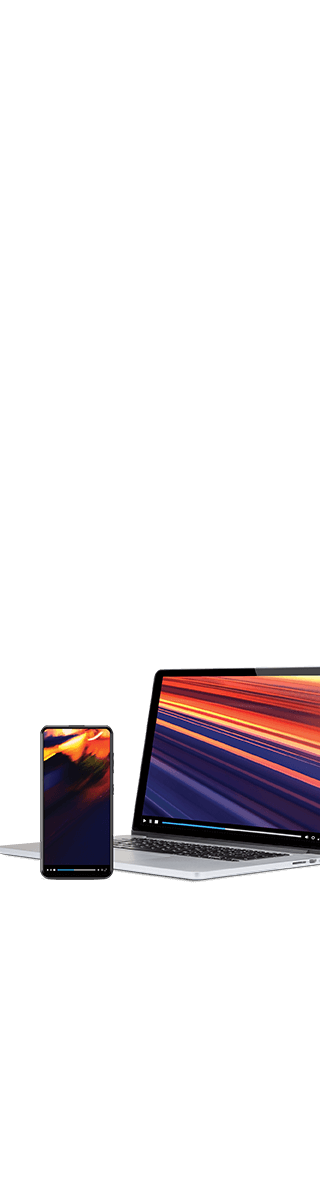
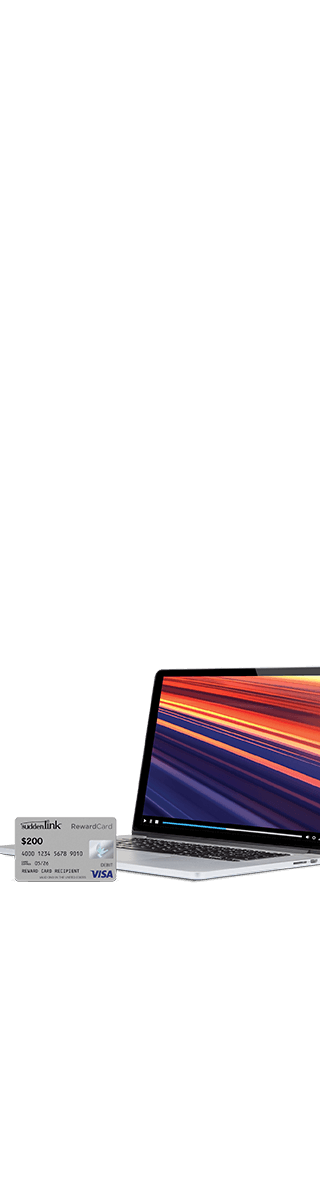
Altice Update

Changed region(s): [[0.0312, 0.5858, 0.375, 0.74], [0.4375, 0.555, 1.0, 0.6475], [0.4062, 0.6475, 0.4375, 0.6783]]

diff --git a/A/Altice/2021/DCO_Feed/frames.js b/A/Altice/2021/DCO_Feed/frames.js
@@ -1,1 +1,1 @@
-var publishVersion = 1611938991826, frames={"ads/SDL_30_1yr(100Mbps)/160x600/160x600.html":{"frame1":"ads/SDL_30_1yr(100Mbps)/160x600/160x600_frame1.html","frame2":"ads/SDL_30_1yr(100Mbps)/160x600/160x600_frame2.html","frame3":"ads/SDL_30_1yr(100Mbps)/160x600/160x600_frame3.html","frame4":"ads/SDL_30_1yr(100Mbps)/160x600/160x600_frame4.html"},"ads/SDL_30_1yr(100Mbps)/300x250/300x250.html":{"frame1":"ads/SDL_30_1yr(100Mbps)/300x250/300x250_frame1.html","frame2":"ads/SDL_30_1yr(100Mbps)/300x250/300x250_frame2.html","frame3":"ads/SDL_30_1yr(100Mbps)/300x250/300x250_frame3.html","frame4":"ads/SDL_30_1yr(100Mbps)/300x250/300x250_frame4.html"},"ads/SDL_30_1yr(100Mbps)/300x600/300x600.html":{"frame1":"ads/SDL_30_1yr(100Mbps)/300x600/300x600_frame1.html","frame2":"ads/SDL_30_1yr(100Mbps)/300x600/300x600_frame2.html","frame3":"ads/SDL_30_1yr(100Mbps)/300x600/300x600_frame3.html","frame4":"ads/SDL_30_1yr(100Mbps)/300x600/300x600_frame4.html"},"ads/SDL_30_1yr(100Mbps)/300x50/300x50.html":{"frame1":"ads/SDL_30_1yr(100Mbps)/300x50/300x50_frame1.html","frame2":"ads/SDL_30_1yr(100Mbps)/300x50/300x50_frame2.html","frame3":"ads/SDL_30_1yr(100Mbps)/300x50/300x50_frame3.html","frame4":"ads/SDL_30_1yr(100Mbps)/300x50/300x50_frame4.html","frame5":"ads/SDL_30_1yr(100Mbps)/300x50/300x50_frame5.html"},"ads/SDL_30_1yr(100Mbps)/728x90/728x90.html":{"frame1":"ads/SDL_30_1yr(100Mbps)/728x90/728x90_frame1.html","frame2":"ads/SDL_30_1yr(100Mbps)/728x90/728x90_frame2.html","frame3":"ads/SDL_30_1yr(100Mbps)/728x90/728x90_frame3.html","frame4":"ads/SDL_30_1yr(100Mbps)/728x90/728x90_frame4.html"},"ads/SDL_30_1yr(100Mbps)/320x50/320x50.html":{"frame1":"ads/SDL_30_1yr(100Mbps)/320x50/320x50_frame1.html","frame2":"ads/SDL_30_1yr(100Mbps)/320x50/320x50_frame2.html","frame3":"ads/SDL_30_1yr(100Mbps)/320x50/320x50_frame3.html","frame4":"ads/SDL_30_1yr(100Mbps)/320x50/320x50_frame4.html","frame5":"ads/SDL_30_1yr(100Mbps)/320x50/320x50_frame5.html"}}
+var publishVersion = 1612438035642, frames={"ads/SDL_30_1yr(100Mbps)/300x50/300x50.html":{"frame1":"ads/SDL_30_1yr(100Mbps)/300x50/300x50_frame1.html","frame2":"ads/SDL_30_1yr(100Mbps)/300x50/300x50_frame2.html","frame3":"ads/SDL_30_1yr(100Mbps)/300x50/300x50_frame3.html","frame4":"ads/SDL_30_1yr(100Mbps)/300x50/300x50_frame4.html","frame5":"ads/SDL_30_1yr(100Mbps)/300x50/300x50_frame5.html"},"ads/SDL_30_1yr(100Mbps)/320x50/320x50.html":{"frame1":"ads/SDL_30_1yr(100Mbps)/320x50/320x50_frame1.html","frame2":"ads/SDL_30_1yr(100Mbps)/320x50/320x50_frame2.html","frame3":"ads/SDL_30_1yr(100Mbps)/320x50/320x50_frame3.html","frame4":"ads/SDL_30_1yr(100Mbps)/320x50/320x50_frame4.html","frame5":"ads/SDL_30_1yr(100Mbps)/320x50/320x50_frame5.html"},"ads/SDL_30_1yr(100Mbps)/300x600/300x600.html":{"frame1":"ads/SDL_30_1yr(100Mbps)/300x600/300x600_frame1.html","frame2":"ads/SDL_30_1yr(100Mbps)/300x600/300x600_frame2.html","frame3":"ads/SDL_30_1yr(100Mbps)/300x600/300x600_frame3.html","frame4":"ads/SDL_30_1yr(100Mbps)/300x600/300x600_frame4.html"},"ads/SDL_30_1yr(100Mbps)/728x90/728x90.html":{"frame1":"ads/SDL_30_1yr(100Mbps)/728x90/728x90_frame1.html","frame2":"ads/SDL_30_1yr(100Mbps)/728x90/728x90_frame2.html","frame3":"ads/SDL_30_1yr(100Mbps)/728x90/728x90_frame3.html","frame4":"ads/SDL_30_1yr(100Mbps)/728x90/728x90_frame4.html"},"ads/SDL_30_1yr(100Mbps)/300x250/300x250.html":{"frame1":"ads/SDL_30_1yr(100Mbps)/300x250/300x250_frame1.html","frame2":"ads/SDL_30_1yr(100Mbps)/300x250/300x250_frame2.html","frame3":"ads/SDL_30_1yr(100Mbps)/300x250/300x250_frame3.html","frame4":"ads/SDL_30_1yr(100Mbps)/300x250/300x250_frame4.html"},"ads/SDL_30_1yr(100Mbps)/160x600/160x600.html":{"frame1":"ads/SDL_30_1yr(100Mbps)/160x600/160x600_frame1.html","frame2":"ads/SDL_30_1yr(100Mbps)/160x600/160x600_frame2.html","frame3":"ads/SDL_30_1yr(100Mbps)/160x600/160x600_frame3.html","frame4":"ads/SDL_30_1yr(100Mbps)/160x600/160x600_frame4.html"}}

diff --git a/A/Altice/2021/DCO_Feed/ads/SDL_30_1yr(100Mbps)/300x250/300x250.html b/A/Altice/2021/DCO_Feed/ads/SDL_30_1yr(100Mbps)/300x250/300x250.html
@@ -331,7 +331,7 @@
           "frameText1": "Pilot Point^just got faster",
           "frameText2": "<div style='top: 55px;left: 20px;width: 260px;font-size: 28px;line-height: 1;text-align: center;'>Suddenlink’s<br>next generation network is here</div>^<div class='AlticeRegular' style='top:178px;left:30px;font-size:8.6px;top:178px;left:30px;font-size:8.6px;line-height:1.2;'>Speeds, prices &<br>availability vary by area.</div>^&nbsp;",
           "frameText3": "<div style='top: 114px;left: 20px;width: 260px;font-size: 24px;line-height: 1;text-align: center;'>Get 100 Mbps Internet</div>^<div class='AlticeRegular' style='top:178px;left:30px;font-size:8.6px;line-height:1.2;'>Wired connection<br>up to 100 Mbps.</div>^&nbsp;",
-          "frameText4": "<div style='top: 13px;left: 24px;font-size: 21.5px;line-height: 1;'><div style='color: #0084d6;height: 17px;font-size: 68%;'>Fast Internet has arrived</div>100 Mbps<br>Internet</div><div style='top: 13px;left: 24px;font-size: 21.5px;line-height: 1;'><div style='color: #0084d6;height: 17px;font-size: 68%;'>Fast Internet has arrived</div>100 Mbps<br>Internet</div>^<div style='top: 75px;left: 18px;width: 160px;line-height: 1;'><font style='font-size: 64px;letter-spacing: -0.5px;padding-right: 2px;line-height: 0.92;' class='coloredText'>$30</font><font style='margin-left: 2px;font-size: 10px;display: inline-block;vertical-align: 26px;line-height: 1.1;'>/mo.<br>1 yr.</font><div class='AlticeRegular' style='margin: 5px 0 0 6px;font-size: 9px;line-height: 1.1;'>w/Auto Pay & Paperless Bill<br>Plus taxes, fees & charges</div></div>^<div style='top: 168px;left: 23px;transform: scale(0.77);transform-origin: top left;'><div class='bulletedText'>$100 Visa<span style='vertical-align:5px;font-size:9px;'>®</span> Prepaid Card. <div class='AlticeRegular' style='font-size: 13px;margin-top: 0px;'>Terms apply.</div></div></div>",
+          "frameText4": "<div style='top: 13px;left: 24px;font-size: 21.5px;line-height: 1;'><div style='color: #0084d6;height: 17px;font-size: 68%;'>Fast Internet has arrived</div>100 Mbps<br>Internet</div><div style='top: 13px;left: 24px;font-size: 21.5px;line-height: 1;'><div style='color: #0084d6;height: 17px;font-size: 68%;'>Fast Internet has arrived</div>100 Mbps<br>Internet</div>^<div style='top: 75px;left: 18px;width: 160px;line-height: 1;'><font style='font-size: 64px;letter-spacing: -0.5px;padding-right: 2px;line-height: 0.92;' class='coloredText'>$30</font><font style='margin-left: 2px;font-size: 10px;display: inline-block;vertical-align: 26px;line-height: 1.1;'>/mo.<br>1 yr.</font><div class='AlticeRegular' style='margin: 5px 0 0 6px;font-size: 9px;line-height: 1.1;'>w/Auto Pay & Paperless Bill<br>Plus taxes, fees & charges</div></div>^<div style='top: 171px;left: 21px;width:360px;transform: scale(0.77);transform-origin: top left;'><div class='bulletedText'><font style='color:#0084d6;'>New!</font> $200 Visa<span style='vertical-align:5px;font-size:9px;'>®</span> Prepaid Card. <div class='AlticeRegular' style='font-size: 12px;margin-top:2px;'>Terms apply.</div></div></div>",
           "ctaText": "Shop now",
           "clickUrl": "https://www.altice.com",
         },

diff --git a/A/Altice/2021/DCO_Feed/ads/SDL_30_1yr(100Mbps)/300x250/300x250_frame1.html b/A/Altice/2021/DCO_Feed/ads/SDL_30_1yr(100Mbps)/300x250/300x250_frame1.html
@@ -331,7 +331,7 @@
           "frameText1": "Pilot Point^just got faster",
           "frameText2": "<div style='top: 55px;left: 20px;width: 260px;font-size: 28px;line-height: 1;text-align: center;'>Suddenlink’s<br>next generation network is here</div>^<div class='AlticeRegular' style='top:178px;left:30px;font-size:8.6px;top:178px;left:30px;font-size:8.6px;line-height:1.2;'>Speeds, prices &<br>availability vary by area.</div>^&nbsp;",
           "frameText3": "<div style='top: 114px;left: 20px;width: 260px;font-size: 24px;line-height: 1;text-align: center;'>Get 100 Mbps Internet</div>^<div class='AlticeRegular' style='top:178px;left:30px;font-size:8.6px;line-height:1.2;'>Wired connection<br>up to 100 Mbps.</div>^&nbsp;",
-          "frameText4": "<div style='top: 13px;left: 24px;font-size: 21.5px;line-height: 1;'><div style='color: #0084d6;height: 17px;font-size: 68%;'>Fast Internet has arrived</div>100 Mbps<br>Internet</div><div style='top: 13px;left: 24px;font-size: 21.5px;line-height: 1;'><div style='color: #0084d6;height: 17px;font-size: 68%;'>Fast Internet has arrived</div>100 Mbps<br>Internet</div>^<div style='top: 75px;left: 18px;width: 160px;line-height: 1;'><font style='font-size: 64px;letter-spacing: -0.5px;padding-right: 2px;line-height: 0.92;' class='coloredText'>$30</font><font style='margin-left: 2px;font-size: 10px;display: inline-block;vertical-align: 26px;line-height: 1.1;'>/mo.<br>1 yr.</font><div class='AlticeRegular' style='margin: 5px 0 0 6px;font-size: 9px;line-height: 1.1;'>w/Auto Pay & Paperless Bill<br>Plus taxes, fees & charges</div></div>^<div style='top: 168px;left: 23px;transform: scale(0.77);transform-origin: top left;'><div class='bulletedText'>$100 Visa<span style='vertical-align:5px;font-size:9px;'>®</span> Prepaid Card. <div class='AlticeRegular' style='font-size: 13px;margin-top: 0px;'>Terms apply.</div></div></div>",
+          "frameText4": "<div style='top: 13px;left: 24px;font-size: 21.5px;line-height: 1;'><div style='color: #0084d6;height: 17px;font-size: 68%;'>Fast Internet has arrived</div>100 Mbps<br>Internet</div><div style='top: 13px;left: 24px;font-size: 21.5px;line-height: 1;'><div style='color: #0084d6;height: 17px;font-size: 68%;'>Fast Internet has arrived</div>100 Mbps<br>Internet</div>^<div style='top: 75px;left: 18px;width: 160px;line-height: 1;'><font style='font-size: 64px;letter-spacing: -0.5px;padding-right: 2px;line-height: 0.92;' class='coloredText'>$30</font><font style='margin-left: 2px;font-size: 10px;display: inline-block;vertical-align: 26px;line-height: 1.1;'>/mo.<br>1 yr.</font><div class='AlticeRegular' style='margin: 5px 0 0 6px;font-size: 9px;line-height: 1.1;'>w/Auto Pay & Paperless Bill<br>Plus taxes, fees & charges</div></div>^<div style='top: 171px;left: 21px;width:360px;transform: scale(0.77);transform-origin: top left;'><div class='bulletedText'><font style='color:#0084d6;'>New!</font> $200 Visa<span style='vertical-align:5px;font-size:9px;'>®</span> Prepaid Card. <div class='AlticeRegular' style='font-size: 12px;margin-top:2px;'>Terms apply.</div></div></div>",
           "ctaText": "Shop now",
           "clickUrl": "https://www.altice.com",
         },

diff --git a/A/Altice/2021/DCO_Feed/ads/SDL_30_1yr(100Mbps)/300x250/300x250_frame2.html b/A/Altice/2021/DCO_Feed/ads/SDL_30_1yr(100Mbps)/300x250/300x250_frame2.html
@@ -331,7 +331,7 @@
           "frameText1": "Pilot Point^just got faster",
           "frameText2": "<div style='top: 55px;left: 20px;width: 260px;font-size: 28px;line-height: 1;text-align: center;'>Suddenlink’s<br>next generation network is here</div>^<div class='AlticeRegular' style='top:178px;left:30px;font-size:8.6px;top:178px;left:30px;font-size:8.6px;line-height:1.2;'>Speeds, prices &<br>availability vary by area.</div>^&nbsp;",
           "frameText3": "<div style='top: 114px;left: 20px;width: 260px;font-size: 24px;line-height: 1;text-align: center;'>Get 100 Mbps Internet</div>^<div class='AlticeRegular' style='top:178px;left:30px;font-size:8.6px;line-height:1.2;'>Wired connection<br>up to 100 Mbps.</div>^&nbsp;",
-          "frameText4": "<div style='top: 13px;left: 24px;font-size: 21.5px;line-height: 1;'><div style='color: #0084d6;height: 17px;font-size: 68%;'>Fast Internet has arrived</div>100 Mbps<br>Internet</div><div style='top: 13px;left: 24px;font-size: 21.5px;line-height: 1;'><div style='color: #0084d6;height: 17px;font-size: 68%;'>Fast Internet has arrived</div>100 Mbps<br>Internet</div>^<div style='top: 75px;left: 18px;width: 160px;line-height: 1;'><font style='font-size: 64px;letter-spacing: -0.5px;padding-right: 2px;line-height: 0.92;' class='coloredText'>$30</font><font style='margin-left: 2px;font-size: 10px;display: inline-block;vertical-align: 26px;line-height: 1.1;'>/mo.<br>1 yr.</font><div class='AlticeRegular' style='margin: 5px 0 0 6px;font-size: 9px;line-height: 1.1;'>w/Auto Pay & Paperless Bill<br>Plus taxes, fees & charges</div></div>^<div style='top: 168px;left: 23px;transform: scale(0.77);transform-origin: top left;'><div class='bulletedText'>$100 Visa<span style='vertical-align:5px;font-size:9px;'>®</span> Prepaid Card. <div class='AlticeRegular' style='font-size: 13px;margin-top: 0px;'>Terms apply.</div></div></div>",
+          "frameText4": "<div style='top: 13px;left: 24px;font-size: 21.5px;line-height: 1;'><div style='color: #0084d6;height: 17px;font-size: 68%;'>Fast Internet has arrived</div>100 Mbps<br>Internet</div><div style='top: 13px;left: 24px;font-size: 21.5px;line-height: 1;'><div style='color: #0084d6;height: 17px;font-size: 68%;'>Fast Internet has arrived</div>100 Mbps<br>Internet</div>^<div style='top: 75px;left: 18px;width: 160px;line-height: 1;'><font style='font-size: 64px;letter-spacing: -0.5px;padding-right: 2px;line-height: 0.92;' class='coloredText'>$30</font><font style='margin-left: 2px;font-size: 10px;display: inline-block;vertical-align: 26px;line-height: 1.1;'>/mo.<br>1 yr.</font><div class='AlticeRegular' style='margin: 5px 0 0 6px;font-size: 9px;line-height: 1.1;'>w/Auto Pay & Paperless Bill<br>Plus taxes, fees & charges</div></div>^<div style='top: 171px;left: 21px;width:360px;transform: scale(0.77);transform-origin: top left;'><div class='bulletedText'><font style='color:#0084d6;'>New!</font> $200 Visa<span style='vertical-align:5px;font-size:9px;'>®</span> Prepaid Card. <div class='AlticeRegular' style='font-size: 12px;margin-top:2px;'>Terms apply.</div></div></div>",
           "ctaText": "Shop now",
           "clickUrl": "https://www.altice.com",
         },

diff --git a/A/Altice/2021/DCO_Feed/ads/SDL_30_1yr(100Mbps)/300x250/300x250_frame3.html b/A/Altice/2021/DCO_Feed/ads/SDL_30_1yr(100Mbps)/300x250/300x250_frame3.html
@@ -331,7 +331,7 @@
           "frameText1": "Pilot Point^just got faster",
           "frameText2": "<div style='top: 55px;left: 20px;width: 260px;font-size: 28px;line-height: 1;text-align: center;'>Suddenlink’s<br>next generation network is here</div>^<div class='AlticeRegular' style='top:178px;left:30px;font-size:8.6px;top:178px;left:30px;font-size:8.6px;line-height:1.2;'>Speeds, prices &<br>availability vary by area.</div>^&nbsp;",
           "frameText3": "<div style='top: 114px;left: 20px;width: 260px;font-size: 24px;line-height: 1;text-align: center;'>Get 100 Mbps Internet</div>^<div class='AlticeRegular' style='top:178px;left:30px;font-size:8.6px;line-height:1.2;'>Wired connection<br>up to 100 Mbps.</div>^&nbsp;",
-          "frameText4": "<div style='top: 13px;left: 24px;font-size: 21.5px;line-height: 1;'><div style='color: #0084d6;height: 17px;font-size: 68%;'>Fast Internet has arrived</div>100 Mbps<br>Internet</div><div style='top: 13px;left: 24px;font-size: 21.5px;line-height: 1;'><div style='color: #0084d6;height: 17px;font-size: 68%;'>Fast Internet has arrived</div>100 Mbps<br>Internet</div>^<div style='top: 75px;left: 18px;width: 160px;line-height: 1;'><font style='font-size: 64px;letter-spacing: -0.5px;padding-right: 2px;line-height: 0.92;' class='coloredText'>$30</font><font style='margin-left: 2px;font-size: 10px;display: inline-block;vertical-align: 26px;line-height: 1.1;'>/mo.<br>1 yr.</font><div class='AlticeRegular' style='margin: 5px 0 0 6px;font-size: 9px;line-height: 1.1;'>w/Auto Pay & Paperless Bill<br>Plus taxes, fees & charges</div></div>^<div style='top: 168px;left: 23px;transform: scale(0.77);transform-origin: top left;'><div class='bulletedText'>$100 Visa<span style='vertical-align:5px;font-size:9px;'>®</span> Prepaid Card. <div class='AlticeRegular' style='font-size: 13px;margin-top: 0px;'>Terms apply.</div></div></div>",
+          "frameText4": "<div style='top: 13px;left: 24px;font-size: 21.5px;line-height: 1;'><div style='color: #0084d6;height: 17px;font-size: 68%;'>Fast Internet has arrived</div>100 Mbps<br>Internet</div><div style='top: 13px;left: 24px;font-size: 21.5px;line-height: 1;'><div style='color: #0084d6;height: 17px;font-size: 68%;'>Fast Internet has arrived</div>100 Mbps<br>Internet</div>^<div style='top: 75px;left: 18px;width: 160px;line-height: 1;'><font style='font-size: 64px;letter-spacing: -0.5px;padding-right: 2px;line-height: 0.92;' class='coloredText'>$30</font><font style='margin-left: 2px;font-size: 10px;display: inline-block;vertical-align: 26px;line-height: 1.1;'>/mo.<br>1 yr.</font><div class='AlticeRegular' style='margin: 5px 0 0 6px;font-size: 9px;line-height: 1.1;'>w/Auto Pay & Paperless Bill<br>Plus taxes, fees & charges</div></div>^<div style='top: 171px;left: 21px;width:360px;transform: scale(0.77);transform-origin: top left;'><div class='bulletedText'><font style='color:#0084d6;'>New!</font> $200 Visa<span style='vertical-align:5px;font-size:9px;'>®</span> Prepaid Card. <div class='AlticeRegular' style='font-size: 12px;margin-top:2px;'>Terms apply.</div></div></div>",
           "ctaText": "Shop now",
           "clickUrl": "https://www.altice.com",
         },

diff --git a/A/Altice/2021/DCO_Feed/ads/SDL_30_1yr(100Mbps)/300x250/300x250_frame4.html b/A/Altice/2021/DCO_Feed/ads/SDL_30_1yr(100Mbps)/300x250/300x250_frame4.html
@@ -331,7 +331,7 @@
           "frameText1": "Pilot Point^just got faster",
           "frameText2": "<div style='top: 55px;left: 20px;width: 260px;font-size: 28px;line-height: 1;text-align: center;'>Suddenlink’s<br>next generation network is here</div>^<div class='AlticeRegular' style='top:178px;left:30px;font-size:8.6px;top:178px;left:30px;font-size:8.6px;line-height:1.2;'>Speeds, prices &<br>availability vary by area.</div>^&nbsp;",
           "frameText3": "<div style='top: 114px;left: 20px;width: 260px;font-size: 24px;line-height: 1;text-align: center;'>Get 100 Mbps Internet</div>^<div class='AlticeRegular' style='top:178px;left:30px;font-size:8.6px;line-height:1.2;'>Wired connection<br>up to 100 Mbps.</div>^&nbsp;",
-          "frameText4": "<div style='top: 13px;left: 24px;font-size: 21.5px;line-height: 1;'><div style='color: #0084d6;height: 17px;font-size: 68%;'>Fast Internet has arrived</div>100 Mbps<br>Internet</div><div style='top: 13px;left: 24px;font-size: 21.5px;line-height: 1;'><div style='color: #0084d6;height: 17px;font-size: 68%;'>Fast Internet has arrived</div>100 Mbps<br>Internet</div>^<div style='top: 75px;left: 18px;width: 160px;line-height: 1;'><font style='font-size: 64px;letter-spacing: -0.5px;padding-right: 2px;line-height: 0.92;' class='coloredText'>$30</font><font style='margin-left: 2px;font-size: 10px;display: inline-block;vertical-align: 26px;line-height: 1.1;'>/mo.<br>1 yr.</font><div class='AlticeRegular' style='margin: 5px 0 0 6px;font-size: 9px;line-height: 1.1;'>w/Auto Pay & Paperless Bill<br>Plus taxes, fees & charges</div></div>^<div style='top: 168px;left: 23px;transform: scale(0.77);transform-origin: top left;'><div class='bulletedText'>$100 Visa<span style='vertical-align:5px;font-size:9px;'>®</span> Prepaid Card. <div class='AlticeRegular' style='font-size: 13px;margin-top: 0px;'>Terms apply.</div></div></div>",
+          "frameText4": "<div style='top: 13px;left: 24px;font-size: 21.5px;line-height: 1;'><div style='color: #0084d6;height: 17px;font-size: 68%;'>Fast Internet has arrived</div>100 Mbps<br>Internet</div><div style='top: 13px;left: 24px;font-size: 21.5px;line-height: 1;'><div style='color: #0084d6;height: 17px;font-size: 68%;'>Fast Internet has arrived</div>100 Mbps<br>Internet</div>^<div style='top: 75px;left: 18px;width: 160px;line-height: 1;'><font style='font-size: 64px;letter-spacing: -0.5px;padding-right: 2px;line-height: 0.92;' class='coloredText'>$30</font><font style='margin-left: 2px;font-size: 10px;display: inline-block;vertical-align: 26px;line-height: 1.1;'>/mo.<br>1 yr.</font><div class='AlticeRegular' style='margin: 5px 0 0 6px;font-size: 9px;line-height: 1.1;'>w/Auto Pay & Paperless Bill<br>Plus taxes, fees & charges</div></div>^<div style='top: 171px;left: 21px;width:360px;transform: scale(0.77);transform-origin: top left;'><div class='bulletedText'><font style='color:#0084d6;'>New!</font> $200 Visa<span style='vertical-align:5px;font-size:9px;'>®</span> Prepaid Card. <div class='AlticeRegular' style='font-size: 12px;margin-top:2px;'>Terms apply.</div></div></div>",
           "ctaText": "Shop now",
           "clickUrl": "https://www.altice.com",
         },

diff --git a/A/Altice/2021/DCO_Feed/ads/SDL_30_1yr(100Mbps)/160x600/160x600.html b/A/Altice/2021/DCO_Feed/ads/SDL_30_1yr(100Mbps)/160x600/160x600.html
@@ -314,7 +314,7 @@
           "frameText1": "Pilot Point^just got faster",
           "frameText2": "<div style='top: 80px;left: 14px;width: 140px;font-size: 22px;line-height: 1;'>Suddenlink’s next generation network<br>is here</div>^<div class='AlticeRegular' style='top: 456px;width: 127px;left:18px;font-size: 9.7px;line-height: 1.25;'>Speeds, prices & availability vary by area.</div>^&nbsp;",
           "frameText3": "<div style='top: 163px;left: 10px;width: 140px;font-size: 20px;line-height: 1.05;text-align: center;'>Get<br>100 Mbps Internet</div>^<div class='AlticeRegular' style='top: 456px;width: 127px;left:18px;font-size: 9.7px;line-height: 1.25;'>Wired connection<br>up to 100 Mbps.</div>^&nbsp;",
-          "frameText4": "<div style='top: 80px;left: 13px;font-size: 18px;line-height:1;'><div style='color: #0084d6;height: 37px;font-size: 83%;line-height: 1.1;'>Fast Internet<br>has arrived</div>100 Mbps<br>Internet</div>^<div style='top: 152px;left: 9px;width: 150px;line-height: 1;'><font style='font-size: 63px;letter-spacing: -2px;padding-right: 2px;' class='coloredText'>$30</font><font style='margin-left: 2px;font-size: 11px;display: inline-block;vertical-align: 25px;'>/mo.<br>1 yr.</font><div class='AlticeRegular' style='margin: 4px 0 0 5px;font-size: 9px;'>w/Auto Pay & Paperless Bill<br>Plus taxes, fees & charges</div></div>^<div style='top: 255px;width:170px;left: 13px;transform: scale(0.88);transform-origin: top left;'><div class='bulletedText' style='line-height: 1.1;'>$100 Visa<span style='vertical-align:5px;font-size:9px;'>®</span><br>Prepaid Card. <div class='AlticeRegular' style='font-size: 11.5px;line-height:1;margin-top: 2px;margin-left: 1px;'>Terms apply.</div></div></div>",
+          "frameText4": "<div style='top: 80px;left: 13px;font-size: 18px;line-height:1;'><div style='color: #0084d6;height: 37px;font-size: 83%;line-height: 1.1;'>Fast Internet<br>has arrived</div>100 Mbps<br>Internet</div>^<div style='top: 152px;left: 9px;width: 150px;line-height: 1;'><font style='font-size: 63px;letter-spacing: -2px;padding-right: 2px;' class='coloredText'>$30</font><font style='margin-left: 2px;font-size: 11px;display: inline-block;vertical-align: 25px;'>/mo.<br>1 yr.</font><div class='AlticeRegular' style='margin: 4px 0 0 5px;font-size: 9px;'>w/Auto Pay & Paperless Bill<br>Plus taxes, fees & charges</div></div>^<div style='top: 255px;width:170px;left: 13px;transform: scale(0.81);transform-origin: top left;'><div class='bulletedText'><font style='color:#0084d6;'>New!</font> $200 Visa<span style='vertical-align:5px;font-size:9px;'>®</span> Prepaid Card. <div class='AlticeRegular' style='font-size: 12px;margin-top:2px;line-height:1;'>Terms apply.</div></div></div>",
           "ctaText": "Shop now",
           "clickUrl": "https://www.altice.com",
         },

diff --git a/A/Altice/2021/DCO_Feed/ads/SDL_30_1yr(100Mbps)/300x600/300x600.html b/A/Altice/2021/DCO_Feed/ads/SDL_30_1yr(100Mbps)/300x600/300x600.html
@@ -310,7 +310,7 @@
           "frameText1": "Pilot Point^just got faster",
           "frameText2": "<div style='top: 92px;left: 21px;width: 270px;font-size: 35px;line-height: 1;'>Suddenlink’s next generation network is here</div>^<div class='AlticeRegular' style='top: 491px;width: 250px;left:22px;font-size:14px;line-height: 1.1;'>Speeds, prices &<br>availability vary by area.</div>^&nbsp;",
           "frameText3": "<div style='top: 198px;left: 20px;width: 260px;font-size: 28px;line-height: 1.1;text-align: center;'>Get 100 Mbps Internet</div>^<div class='AlticeRegular' style='top: 491px;width: 250px;left:22px;font-size:14px;line-height: 1.1;'>Wired connection<br>up to 100 Mbps.</div>^&nbsp;",
-          "frameText4": "<div style='top: 67px;left: 22px;font-size: 28px;line-height:1;'><div style='color: #0084d6;height: 25px;font-size: 71%;'>Fast Internet has arrived</div>100 Mbps<br>Internet</div>^<div style='top: 143px;left: 14px;width: 260px;line-height: 1;'><font style='font-size: 117.5px;letter-spacing: -3px;padding-right: 3px;line-height: 1;' class='coloredText'>$30</font><font style='margin-left: 2px;font-size: 19px;display: inline-block;vertical-align: 47px;line-height: 0.95;'>/mo.<br>1 yr.</font><div class='AlticeRegular' style='margin: -3px 0 0 8px;font-size: 14px;'>w/Auto Pay & Paperless Bill<br>Plus taxes, fees & charges</div></div>^<div style='top: 304px;width:420px;left: 21px;transform: scale(0.69);transform-origin: top left;'><div class='bulletedText'>$100 Visa<span style='vertical-align:11px;font-size:14px;'>®</span> Prepaid Card. <div class='AlticeRegular' style='font-size: 19.5px;margin-top: 2px;line-height:1;'>Terms apply.</div></div></div>",
+          "frameText4": "<div style='top: 67px;left: 22px;font-size: 28px;line-height:1;'><div style='color: #0084d6;height: 25px;font-size: 71%;'>Fast Internet has arrived</div>100 Mbps<br>Internet</div>^<div style='top: 143px;left: 14px;width: 260px;line-height: 1;'><font style='font-size: 117.5px;letter-spacing: -3px;padding-right: 3px;line-height: 1;' class='coloredText'>$30</font><font style='margin-left: 2px;font-size: 19px;display: inline-block;vertical-align: 47px;line-height: 0.95;'>/mo.<br>1 yr.</font><div class='AlticeRegular' style='margin: -3px 0 0 8px;font-size: 14px;'>w/Auto Pay & Paperless Bill<br>Plus taxes, fees & charges</div></div>^<div style='top: 304px;width:400px;left: 21px;transform: scale(0.7);transform-origin: top left;'><div class='bulletedText'><font style='color:#0084d6;'>New!</font> $200 Visa<span style='vertical-align:11px;font-size:14px;'>®</span> Prepaid Card. <font class='AlticeRegular' style='font-size: 19.5px;line-height:1;'>Terms apply.</font></div></div>",
           "ctaText": "Shop now",
           "clickUrl": "https://www.altice.com",
         },

diff --git a/A/Altice/2021/DCO_Feed/ads/SDL_30_1yr(100Mbps)/300x600/300x600_frame1.html b/A/Altice/2021/DCO_Feed/ads/SDL_30_1yr(100Mbps)/300x600/300x600_frame1.html
@@ -310,7 +310,7 @@
           "frameText1": "Pilot Point^just got faster",
           "frameText2": "<div style='top: 92px;left: 21px;width: 270px;font-size: 35px;line-height: 1;'>Suddenlink’s next generation network is here</div>^<div class='AlticeRegular' style='top: 491px;width: 250px;left:22px;font-size:14px;line-height: 1.1;'>Speeds, prices &<br>availability vary by area.</div>^&nbsp;",
           "frameText3": "<div style='top: 198px;left: 20px;width: 260px;font-size: 28px;line-height: 1.1;text-align: center;'>Get 100 Mbps Internet</div>^<div class='AlticeRegular' style='top: 491px;width: 250px;left:22px;font-size:14px;line-height: 1.1;'>Wired connection<br>up to 100 Mbps.</div>^&nbsp;",
-          "frameText4": "<div style='top: 67px;left: 22px;font-size: 28px;line-height:1;'><div style='color: #0084d6;height: 25px;font-size: 71%;'>Fast Internet has arrived</div>100 Mbps<br>Internet</div>^<div style='top: 143px;left: 14px;width: 260px;line-height: 1;'><font style='font-size: 117.5px;letter-spacing: -3px;padding-right: 3px;line-height: 1;' class='coloredText'>$30</font><font style='margin-left: 2px;font-size: 19px;display: inline-block;vertical-align: 47px;line-height: 0.95;'>/mo.<br>1 yr.</font><div class='AlticeRegular' style='margin: -3px 0 0 8px;font-size: 14px;'>w/Auto Pay & Paperless Bill<br>Plus taxes, fees & charges</div></div>^<div style='top: 304px;width:420px;left: 21px;transform: scale(0.69);transform-origin: top left;'><div class='bulletedText'>$100 Visa<span style='vertical-align:11px;font-size:14px;'>®</span> Prepaid Card. <div class='AlticeRegular' style='font-size: 19.5px;margin-top: 2px;line-height:1;'>Terms apply.</div></div></div>",
+          "frameText4": "<div style='top: 67px;left: 22px;font-size: 28px;line-height:1;'><div style='color: #0084d6;height: 25px;font-size: 71%;'>Fast Internet has arrived</div>100 Mbps<br>Internet</div>^<div style='top: 143px;left: 14px;width: 260px;line-height: 1;'><font style='font-size: 117.5px;letter-spacing: -3px;padding-right: 3px;line-height: 1;' class='coloredText'>$30</font><font style='margin-left: 2px;font-size: 19px;display: inline-block;vertical-align: 47px;line-height: 0.95;'>/mo.<br>1 yr.</font><div class='AlticeRegular' style='margin: -3px 0 0 8px;font-size: 14px;'>w/Auto Pay & Paperless Bill<br>Plus taxes, fees & charges</div></div>^<div style='top: 304px;width:400px;left: 21px;transform: scale(0.7);transform-origin: top left;'><div class='bulletedText'><font style='color:#0084d6;'>New!</font> $200 Visa<span style='vertical-align:11px;font-size:14px;'>®</span> Prepaid Card. <font class='AlticeRegular' style='font-size: 19.5px;line-height:1;'>Terms apply.</font></div></div>",
           "ctaText": "Shop now",
           "clickUrl": "https://www.altice.com",
         },

diff --git a/A/Altice/2021/DCO_Feed/ads/SDL_30_1yr(100Mbps)/300x600/300x600_frame2.html b/A/Altice/2021/DCO_Feed/ads/SDL_30_1yr(100Mbps)/300x600/300x600_frame2.html
@@ -310,7 +310,7 @@
           "frameText1": "Pilot Point^just got faster",
           "frameText2": "<div style='top: 92px;left: 21px;width: 270px;font-size: 35px;line-height: 1;'>Suddenlink’s next generation network is here</div>^<div class='AlticeRegular' style='top: 491px;width: 250px;left:22px;font-size:14px;line-height: 1.1;'>Speeds, prices &<br>availability vary by area.</div>^&nbsp;",
           "frameText3": "<div style='top: 198px;left: 20px;width: 260px;font-size: 28px;line-height: 1.1;text-align: center;'>Get 100 Mbps Internet</div>^<div class='AlticeRegular' style='top: 491px;width: 250px;left:22px;font-size:14px;line-height: 1.1;'>Wired connection<br>up to 100 Mbps.</div>^&nbsp;",
-          "frameText4": "<div style='top: 67px;left: 22px;font-size: 28px;line-height:1;'><div style='color: #0084d6;height: 25px;font-size: 71%;'>Fast Internet has arrived</div>100 Mbps<br>Internet</div>^<div style='top: 143px;left: 14px;width: 260px;line-height: 1;'><font style='font-size: 117.5px;letter-spacing: -3px;padding-right: 3px;line-height: 1;' class='coloredText'>$30</font><font style='margin-left: 2px;font-size: 19px;display: inline-block;vertical-align: 47px;line-height: 0.95;'>/mo.<br>1 yr.</font><div class='AlticeRegular' style='margin: -3px 0 0 8px;font-size: 14px;'>w/Auto Pay & Paperless Bill<br>Plus taxes, fees & charges</div></div>^<div style='top: 304px;width:420px;left: 21px;transform: scale(0.69);transform-origin: top left;'><div class='bulletedText'>$100 Visa<span style='vertical-align:11px;font-size:14px;'>®</span> Prepaid Card. <div class='AlticeRegular' style='font-size: 19.5px;margin-top: 2px;line-height:1;'>Terms apply.</div></div></div>",
+          "frameText4": "<div style='top: 67px;left: 22px;font-size: 28px;line-height:1;'><div style='color: #0084d6;height: 25px;font-size: 71%;'>Fast Internet has arrived</div>100 Mbps<br>Internet</div>^<div style='top: 143px;left: 14px;width: 260px;line-height: 1;'><font style='font-size: 117.5px;letter-spacing: -3px;padding-right: 3px;line-height: 1;' class='coloredText'>$30</font><font style='margin-left: 2px;font-size: 19px;display: inline-block;vertical-align: 47px;line-height: 0.95;'>/mo.<br>1 yr.</font><div class='AlticeRegular' style='margin: -3px 0 0 8px;font-size: 14px;'>w/Auto Pay & Paperless Bill<br>Plus taxes, fees & charges</div></div>^<div style='top: 304px;width:400px;left: 21px;transform: scale(0.7);transform-origin: top left;'><div class='bulletedText'><font style='color:#0084d6;'>New!</font> $200 Visa<span style='vertical-align:11px;font-size:14px;'>®</span> Prepaid Card. <font class='AlticeRegular' style='font-size: 19.5px;line-height:1;'>Terms apply.</font></div></div>",
           "ctaText": "Shop now",
           "clickUrl": "https://www.altice.com",
         },

diff --git a/A/Altice/2021/DCO_Feed/ads/SDL_30_1yr(100Mbps)/300x600/300x600_frame3.html b/A/Altice/2021/DCO_Feed/ads/SDL_30_1yr(100Mbps)/300x600/300x600_frame3.html
@@ -310,7 +310,7 @@
           "frameText1": "Pilot Point^just got faster",
           "frameText2": "<div style='top: 92px;left: 21px;width: 270px;font-size: 35px;line-height: 1;'>Suddenlink’s next generation network is here</div>^<div class='AlticeRegular' style='top: 491px;width: 250px;left:22px;font-size:14px;line-height: 1.1;'>Speeds, prices &<br>availability vary by area.</div>^&nbsp;",
           "frameText3": "<div style='top: 198px;left: 20px;width: 260px;font-size: 28px;line-height: 1.1;text-align: center;'>Get 100 Mbps Internet</div>^<div class='AlticeRegular' style='top: 491px;width: 250px;left:22px;font-size:14px;line-height: 1.1;'>Wired connection<br>up to 100 Mbps.</div>^&nbsp;",
-          "frameText4": "<div style='top: 67px;left: 22px;font-size: 28px;line-height:1;'><div style='color: #0084d6;height: 25px;font-size: 71%;'>Fast Internet has arrived</div>100 Mbps<br>Internet</div>^<div style='top: 143px;left: 14px;width: 260px;line-height: 1;'><font style='font-size: 117.5px;letter-spacing: -3px;padding-right: 3px;line-height: 1;' class='coloredText'>$30</font><font style='margin-left: 2px;font-size: 19px;display: inline-block;vertical-align: 47px;line-height: 0.95;'>/mo.<br>1 yr.</font><div class='AlticeRegular' style='margin: -3px 0 0 8px;font-size: 14px;'>w/Auto Pay & Paperless Bill<br>Plus taxes, fees & charges</div></div>^<div style='top: 304px;width:420px;left: 21px;transform: scale(0.69);transform-origin: top left;'><div class='bulletedText'>$100 Visa<span style='vertical-align:11px;font-size:14px;'>®</span> Prepaid Card. <div class='AlticeRegular' style='font-size: 19.5px;margin-top: 2px;line-height:1;'>Terms apply.</div></div></div>",
+          "frameText4": "<div style='top: 67px;left: 22px;font-size: 28px;line-height:1;'><div style='color: #0084d6;height: 25px;font-size: 71%;'>Fast Internet has arrived</div>100 Mbps<br>Internet</div>^<div style='top: 143px;left: 14px;width: 260px;line-height: 1;'><font style='font-size: 117.5px;letter-spacing: -3px;padding-right: 3px;line-height: 1;' class='coloredText'>$30</font><font style='margin-left: 2px;font-size: 19px;display: inline-block;vertical-align: 47px;line-height: 0.95;'>/mo.<br>1 yr.</font><div class='AlticeRegular' style='margin: -3px 0 0 8px;font-size: 14px;'>w/Auto Pay & Paperless Bill<br>Plus taxes, fees & charges</div></div>^<div style='top: 304px;width:400px;left: 21px;transform: scale(0.7);transform-origin: top left;'><div class='bulletedText'><font style='color:#0084d6;'>New!</font> $200 Visa<span style='vertical-align:11px;font-size:14px;'>®</span> Prepaid Card. <font class='AlticeRegular' style='font-size: 19.5px;line-height:1;'>Terms apply.</font></div></div>",
           "ctaText": "Shop now",
           "clickUrl": "https://www.altice.com",
         },

diff --git a/A/Altice/2021/DCO_Feed/ads/SDL_30_1yr(100Mbps)/300x600/300x600_frame4.html b/A/Altice/2021/DCO_Feed/ads/SDL_30_1yr(100Mbps)/300x600/300x600_frame4.html
@@ -310,7 +310,7 @@
           "frameText1": "Pilot Point^just got faster",
           "frameText2": "<div style='top: 92px;left: 21px;width: 270px;font-size: 35px;line-height: 1;'>Suddenlink’s next generation network is here</div>^<div class='AlticeRegular' style='top: 491px;width: 250px;left:22px;font-size:14px;line-height: 1.1;'>Speeds, prices &<br>availability vary by area.</div>^&nbsp;",
           "frameText3": "<div style='top: 198px;left: 20px;width: 260px;font-size: 28px;line-height: 1.1;text-align: center;'>Get 100 Mbps Internet</div>^<div class='AlticeRegular' style='top: 491px;width: 250px;left:22px;font-size:14px;line-height: 1.1;'>Wired connection<br>up to 100 Mbps.</div>^&nbsp;",
-          "frameText4": "<div style='top: 67px;left: 22px;font-size: 28px;line-height:1;'><div style='color: #0084d6;height: 25px;font-size: 71%;'>Fast Internet has arrived</div>100 Mbps<br>Internet</div>^<div style='top: 143px;left: 14px;width: 260px;line-height: 1;'><font style='font-size: 117.5px;letter-spacing: -3px;padding-right: 3px;line-height: 1;' class='coloredText'>$30</font><font style='margin-left: 2px;font-size: 19px;display: inline-block;vertical-align: 47px;line-height: 0.95;'>/mo.<br>1 yr.</font><div class='AlticeRegular' style='margin: -3px 0 0 8px;font-size: 14px;'>w/Auto Pay & Paperless Bill<br>Plus taxes, fees & charges</div></div>^<div style='top: 304px;width:420px;left: 21px;transform: scale(0.69);transform-origin: top left;'><div class='bulletedText'>$100 Visa<span style='vertical-align:11px;font-size:14px;'>®</span> Prepaid Card. <div class='AlticeRegular' style='font-size: 19.5px;margin-top: 2px;line-height:1;'>Terms apply.</div></div></div>",
+          "frameText4": "<div style='top: 67px;left: 22px;font-size: 28px;line-height:1;'><div style='color: #0084d6;height: 25px;font-size: 71%;'>Fast Internet has arrived</div>100 Mbps<br>Internet</div>^<div style='top: 143px;left: 14px;width: 260px;line-height: 1;'><font style='font-size: 117.5px;letter-spacing: -3px;padding-right: 3px;line-height: 1;' class='coloredText'>$30</font><font style='margin-left: 2px;font-size: 19px;display: inline-block;vertical-align: 47px;line-height: 0.95;'>/mo.<br>1 yr.</font><div class='AlticeRegular' style='margin: -3px 0 0 8px;font-size: 14px;'>w/Auto Pay & Paperless Bill<br>Plus taxes, fees & charges</div></div>^<div style='top: 304px;width:400px;left: 21px;transform: scale(0.7);transform-origin: top left;'><div class='bulletedText'><font style='color:#0084d6;'>New!</font> $200 Visa<span style='vertical-align:11px;font-size:14px;'>®</span> Prepaid Card. <font class='AlticeRegular' style='font-size: 19.5px;line-height:1;'>Terms apply.</font></div></div>",
           "ctaText": "Shop now",
           "clickUrl": "https://www.altice.com",
         },
